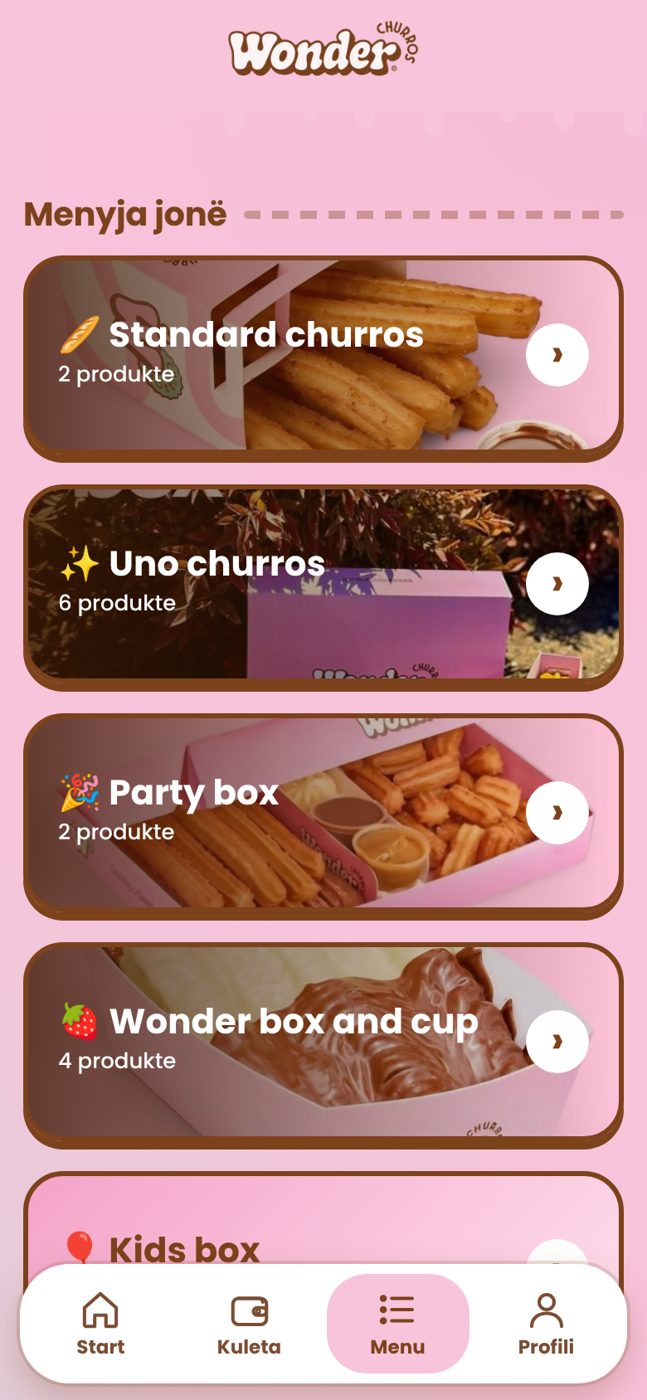
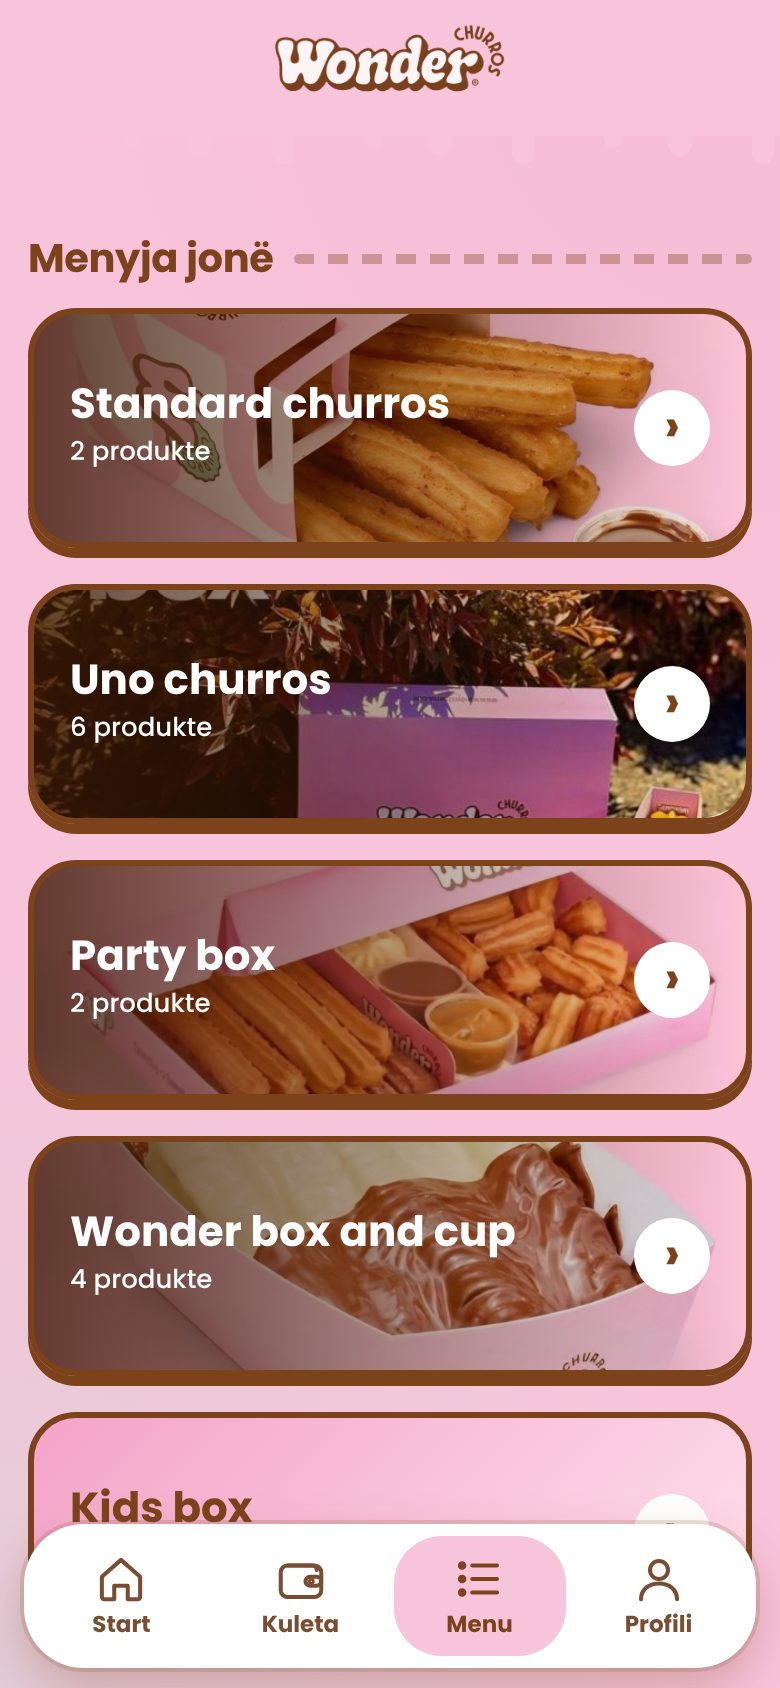
Menu text only; product QR on the customer's phone with quantity
- Remove emoji before category, product and dip names
- Product page shows a QR (WONDER-P:id[:qty]) with a 1-20 quantity stepper
- Till: one camera session links the customer, then scans the product QR on the customer's phone
- Printed product codes kept as a fallback

Claude-Session: https://claude.ai/code/session_01J6BHvyhh5WLEG3Je4JCcW7

diff --git a/index.html b/index.html
@@ -133,7 +133,7 @@ h3::after{content:"";flex:1;height:5px;border-radius:5px;background:repeating-li
 .dimg{background:var(--pink);border:3px solid #7C421C;border-radius:30px;box-shadow:0 6px 0 #7C421C;padding:16px;display:flex;justify-content:center;align-items:center;min-height:240px;margin-bottom:18px;overflow:hidden}
 .dimg img{width:100%;height:auto;max-height:46vh;object-fit:contain;border-radius:20px;display:block;filter:drop-shadow(0 12px 12px rgba(124,66,28,.3));animation:grow .42s cubic-bezier(.2,.8,.2,1) both}
 @keyframes grow{from{transform:scale(.68);opacity:.3}}
-.pemo{font-size:120px;line-height:1.1}
+.pemo{display:none}.dimg:empty{display:none}.mi.noth{min-height:0;padding-top:16px;padding-bottom:16px}
 .pname{font-family:"Poppins",system-ui,-apple-system,"Segoe UI",Roboto,sans-serif;font-weight:400;font-size:34px;margin:4px 0 12px;color:var(--on);text-align:center}
 .rows{background:var(--card);border:1.5px solid var(--line);border-radius:20px;padding:4px 16px}
 .r{display:flex;justify-content:space-between;gap:14px;padding:11px 0;border-bottom:1px dashed var(--line)}.r:last-child{border:0}.r span{color:var(--muted)}.r b{text-align:right}
@@ -205,6 +205,10 @@ select{width:100%;padding:12px;border-radius:12px;border:2px solid var(--line);b
 .qcard .qimg svg{width:100%;display:block}.qcard b{font-size:15px;line-height:1.2}.qcard span{font-size:12.5px;color:#7a4d33}.qcard i{font-style:normal;font-size:10.5px;color:#999;letter-spacing:.03em}
 @media print{@page{margin:10mm}body{background:#fff!important;padding:0}header,#bot,.tabs,.noprint,.card.good{display:none!important}main{max-width:none;padding:0}
 .qgrid{grid-template-columns:repeat(4,1fr);gap:8px}.qcard{break-inside:avoid;border-width:1px}.qcat{break-after:avoid;margin:10px 0 6px}h3::after{display:none}}
+.pqc{margin-top:16px}.pqh{display:flex;flex-direction:column;gap:2px;margin-bottom:12px}.pqb{display:flex;gap:16px;align-items:center}
+.pqr{width:132px}.pqs{display:flex;flex-direction:column;gap:6px}.stp{display:flex;align-items:center;gap:12px}.stp b{font-size:24px;min-width:28px;text-align:center}
+.stp .btn{width:42px;height:42px;padding:0;justify-content:center;font-size:22px}.pqp{font-weight:800;color:#7C421C}
+.slk{font-weight:800;color:#7C421C;text-align:center;margin:2px 0}.slk.ok{color:#1d7a3a}.sms{text-align:center;margin:2px 0 8px}
 </style>
 </head>
 <body>
@@ -225,15 +229,18 @@ const DS={1:'5 churros të freskëta dhe krokante, të shoqëruara me 1 dip sipa
 const DIPS=[['🍓','Raspberry'],['🫐','Blueberry'],['🌰','Hazelnut'],['🍦','Vanilla'],['🍫','Nutella'],['🍯','Caramel'],['🟢','Pistachio']];
 const FLAV=['Caramel','Hazelnut','Toffee Crunch','Speculoos Cookie','Vanilla','Popcorn'];
 const XI={1:['5 churros','1 dip sipas zgjedhjes','d'],2:['10 churros','2 dip sipas zgjedhjes','d'],20:['Churros të zhytur në çokollatë','Çokollatë',''],3:['5 churros','2 dip sauces','d'],6:['10 churros + 15 mini churros','4 dip sauces','d'],4:['15 mini churros','2 toppings',''],5:['20 mini churros + fruta sezonale','2 dip sauces','d'],7:['40 mini churros + fruta sezonale','4 dip sauces','d'],27:['Latte me shije','Shije sipas zgjedhjes','f']};
-let pd=null,mscroll=0,ms0=0,mx=0;
+let pd=null,mscroll=0,ms0=0,mx=0;const pqty={};
 function fx(s){if(!s)return;const r=s.getBoundingClientRect(),c=r.left+r.width/2;s.querySelectorAll('.mcard').forEach(k=>{const b=k.getBoundingClientRect(),d=Math.min(1,Math.abs(b.left+b.width/2-c)/(b.width*1.1));k.style.transform=`scale(${1-.14*d})`;k.style.opacity=1-.35*d})}
+function pqrCard(m){const q=pqty[m.id]||1,pts=Math.round(m.p*q*100)/100;
+ return `<div class="card pqc"><div class="pqh"><b>Fito pikë për këtë blerje</b><span class="mut">Në arkë stafi skanon fillimisht QR-në tënde te Kuleta, pastaj këtë kod.</span></div>`
+ +`<div class="pqb"><div class="qrs pqr" id="pqr">${qrSvg(PQR(m.id,q))}</div><div class="pqs"><span class="mut">Sasia</span><div class="stp"><button class="btn ghost sm" data-a="pq" data-v="-1" aria-label="Më pak">−</button><b id="pqn">${q}</b><button class="btn ghost sm" data-a="pq" data-v="1" aria-label="Më shumë">+</button></div><span class="pqp" id="pqp">+${fmtP(pts)} pikë</span></div></div></div>`}
 function vProd(m){const uno=m.n.startsWith('Uno '),x=XI[m.id]||(uno?['1 churros i gjatë','Topping: '+m.n.replace('Uno ',''),'']:null),full=FULL.has(m.i);
  const rows=[['Lloji',m.c]];if(x){rows.push(['Përmbajtja',x[0]]);rows.push(['Sosi / Dip',x[1]])}
- const chips=x&&x[2]==='d'?DIPS.map(d=>`<span class="chp">${d[0]} ${d[1]}</span>`).join(''):x&&x[2]==='f'?FLAV.map(f=>`<span class="chp">${f}</span>`).join(''):'';
+ const chips=x&&x[2]==='d'?DIPS.map(d=>`<span class="chp">${d[1]}</span>`).join(''):x&&x[2]==='f'?FLAV.map(f=>`<span class="chp">${f}</span>`).join(''):'';
  return `<div class="dh"><button class="dback" data-a="pback" aria-label="Kthehu te menyja">←</button><b>${m.c}</b><i></i></div>`
- +`<div class="dimg${full?' full':''}"${full?` style="background:${IMGBG[m.i]}"`:''}>${m.i?`<img src="${IMGL[m.i]||IMG[m.i]}" alt="${m.n}"${full?'':` style="max-width:${IMGW[m.i]||560}px"`}>`:`<div class="pemo">${m.e}</div>`}</div>`
+ +`<div class="dimg${full?' full':''}"${full?` style="background:${IMGBG[m.i]}"`:''}>${m.i?`<img src="${IMGL[m.i]||IMG[m.i]}" alt="${m.n}"${full?'':` style="max-width:${IMGW[m.i]||560}px"`}>`:''}</div>`
  +`<h2 class="pname">${m.n}${m.nw?'<span class="nw">I RI</span>':''}</h2><div class="rows">${rows.map(r=>`<div class="r"><span>${r[0]}</span><b>${r[1]}</b></div>`).join('')}</div>`
- +(chips?`<h4 class="sec">${x[2]==='d'?'Dip-et e disponueshme':'Shijet e disponueshme'}</h4><div class="chps">${chips}</div>${x[2]==='d'?'<p class="mut" style="margin:8px 0 0">Dip shtesë: 0.50 €</p>':''}`:'')
+ +(U()?pqrCard(m):'')+(chips?`<h4 class="sec">${x[2]==='d'?'Dip-et e disponueshme':'Shijet e disponueshme'}</h4><div class="chps">${chips}</div>${x[2]==='d'?'<p class="mut" style="margin:8px 0 0">Dip shtesë: 0.50 €</p>':''}`:'')
  +`<h4 class="sec">Rreth produktit</h4><p class="pdesc">${DS[m.id]||m.d}</p><div class="dfoot"><span class="mut">Çmimi</span><span class="badge">${K(m.p)}</span></div><button class="btn ghost wide" style="justify-content:center" data-a="pback">← Kthehu te ${m.c}</button>`}
 const CATIC={'Standard churros':'🥖','Uno churros':'✨','Party box':'🎉','Wonder box and cup':'🍓','Kids box':'🎈','Flavored Latte':'🥤','Coffee':'☕'};
 const CATS=['Standard churros','Uno churros','Party box','Wonder box and cup','Kids box','Flavored Latte','Coffee'];
@@ -290,8 +297,8 @@ const closeS=()=>$('ov').classList.remove('show');
 const b64e=s=>btoa(unescape(encodeURIComponent(s))).replace(/\+/g,'-').replace(/\//g,'_').replace(/=+$/,'');
 const b64d=s=>decodeURIComponent(escape(atob(s.replace(/-/g,'+').replace(/_/g,'/'))));
 const qrPay=u=>'WONDER:'+u.mid+':'+b64e(JSON.stringify({n:u.name,s:u.surname||'',e:u.email||''}));
-const PQR=id=>'WONDER-P:'+id;
-const parseP=t=>{const m=/^WONDER-P:(\d+)$/i.exec(String(t).trim());return m?MENU.find(x=>x.id==+m[1])||null:null};
+const PQR=(id,q)=>'WONDER-P:'+id+(q>1?':'+q:'');
+const parseP=t=>{const m=/^WONDER-P:(\d+)(?::(\d+))?$/i.exec(String(t).trim());if(!m)return null;const p=MENU.find(x=>x.id==+m[1]);const q=m[2]?+m[2]:1;return p&&q>=1&&q<=20?{m:p,q}:null};
 function parseQR(t){const m=/^WONDER:([A-Z0-9]+)(?::([A-Za-z0-9_-]+))?$/i.exec(String(t).trim());if(!m)return null;let c={};try{if(m[2])c=JSON.parse(b64d(m[2]))}catch(e){}return {mid:m[1].toUpperCase(),n:c.n||'',s:c.s||'',e:(c.e||'').toLowerCase()}}
 function qrSvg(t){try{const q=qrcode(0,'M');q.addData(t);q.make();const n=q.getModuleCount();let d='';for(let r=0;r<n;r++)for(let c=0;c<n;c++)if(q.isDark(r,c))d+=`M${c+2} ${r+2}h1v1h-1z`;return `<svg viewBox="0 0 ${n+4} ${n+4}" xmlns="http://www.w3.org/2000/svg" shape-rendering="crispEdges"><rect width="100%" height="100%" fill="#fff"/><path d="${d}" fill="#000"/></svg>`}catch(e){return ''}}
 
@@ -336,14 +343,14 @@ function vWal(){const u=U(),pp=u.pp||{},pr=m=>Math.min(1,(pp[m.id]||0)/RC(m));
  +`<h3>Dhuratat e tua</h3>`+(u.vouchers.length?u.vouchers.map(v=>`<div class="card tkt"><span class="ribbon">FALAS</span><b>${esc(v.n)}</b><span class="mut">Trego këtë në arkë</span></div>`).join(''):'<div class="card mut">Kur arrin pikët e një produkti, ai hapet këtu falas.</div>')
  +`<h3>Produktet falas</h3><p class="mut" style="margin:0 0 10px">Blej të njëjtin produkt 9 herë dhe i 10-ti është falas. Pikët numërohen për secilin produkt veç e veç dhe pas përdorimit zbriten.</p>`+rw.map(m=>{const c=pp[m.id]||0,ok=c>=RC(m);return `<div class="card item pg${ok?' ok':''}">${th(m)}<div class="t"><b>${m.n}</b><span class="mut">${fmtP(c)} / ${fmtP(RC(m))} pikë</span><div class="pbar"><i style="width:${Math.min(100,c/RC(m)*100)}%"></i></div></div>${ok?`<button class="btn sm" data-a="redeem" data-v="${m.id}">Merre falas</button>`:`<span class="mut need">Edhe ${fmtP(RC(m)-c)}</span>`}</div>`}).join('')
  +`<h3>Ofertat e tua</h3>${(u.offers||[]).length?u.offers.map((o,i)=>offerBox(o,i)).join(''):'<div class="card mut">Nuk ke oferta aktive tani.</div>'}`
- +`<h3>ID-ja ime</h3><div class="card idc"><div class="qrs">${qrSvg(qrPay(u))}</div><div><b>${FN(u)}</b><div class="mut">ID e klientit</div><div class="idn">${u.mid}</div><span class="mut">Trego QR-në në arkë</span></div></div>`
+ +`<h3>ID-ja ime</h3><div class="card idc"><div class="qrs">${qrSvg(qrPay(u))}</div><div><b>${FN(u)}</b><div class="mut">ID e klientit</div><div class="idn">${u.mid}</div><span class="mut">Trego QR-në në arkë</span></div></div><p class="mut" style="margin:8px 4px 0">1. Stafi skanon këtë QR. 2. Hap produktin që blen te <b>Menu</b> dhe trego QR-në e tij. Pikët shtohen automatikisht.</p>`
  +`<h3>Historiku i pikëve</h3>`+(hist||'<div class="card mut">Ende nuk ke blerje. Pas çdo blerjeje në dyqan fiton pikë.</div>')}
 function vMenu(){if(pd!=null){const pm=MENU.find(x=>x.id==pd);if(pm)return vProd(pm)}
  if(cat==null){const T={'Standard churros':[IMGL.churros,'center'],'Uno churros':[PHOTOS[0],'center 40%'],'Party box':[IMGL.party,'center'],'Wonder box and cup':[IMGL.duo,'center 55%'],'Flavored Latte':[PHOTOS[1],'center 62%'],'Coffee':[PHOTOS[3],'center 60%']};
-  return `<h3>Menyja jonë</h3>`+CATS.map(c=>{const n=MENU.filter(m=>m.c===c).length,t=T[c];return `<div class="ctile${t?'':' noimg'}" data-a="cat" data-v="${c}" role="button" tabindex="0" style="${t?`background-image:linear-gradient(90deg,rgba(60,25,5,.8),rgba(60,25,5,.3) 62%,rgba(60,25,5,0)),url(${t[0]});background-position:center,${t[1]}`:''}"><div><b>${CATIC[c]} ${c}</b><span>${n?n+' produkte':'Së shpejti'}</span></div><span class="go2">›</span></div>`}).join('')}
+  return `<h3>Menyja jonë</h3>`+CATS.map(c=>{const n=MENU.filter(m=>m.c===c).length,t=T[c];return `<div class="ctile${t?'':' noimg'}" data-a="cat" data-v="${c}" role="button" tabindex="0" style="${t?`background-image:linear-gradient(90deg,rgba(60,25,5,.8),rgba(60,25,5,.3) 62%,rgba(60,25,5,0)),url(${t[0]});background-position:center,${t[1]}`:''}"><div><b>${c}</b><span>${n?n+' produkte':'Së shpejti'}</span></div><span class="go2">›</span></div>`}).join('')}
  const its=MENU.filter(m=>m.c===cat);
  return `<div class="dh"><button class="dback" data-a="cback" aria-label="Kthehu te menyja">←</button><b>${cat}</b><i></i></div>`
- +(its.length?its.map(m=>`<div class="card item mi" data-a="prod" data-v="${m.id}" role="button" tabindex="0">${m.i?`<img class="th" src="${IMG[m.i]}" alt="${m.n}">`:`<div class="th ph2">${m.e}</div>`}<div class="t"><b>${m.n}${m.nw?'<span class="nw">I RI</span>':''}</b><span class="mut">${m.d}</span></div><span class="badge">${K(m.p)}</span></div>`).join(''):'<div class="card mut">Produktet e kësaj kategorie po shtohen së shpejti.</div>')}
+ +(its.length?its.map(m=>`<div class="card item mi${m.i?'':' noth'}" data-a="prod" data-v="${m.id}" role="button" tabindex="0">${m.i?`<img class="th" src="${IMG[m.i]}" alt="${m.n}">`:''}<div class="t"><b>${m.n}${m.nw?'<span class="nw">I RI</span>':''}</b><span class="mut">${m.d}</span></div><span class="badge">${K(m.p)}</span></div>`).join(''):'<div class="card mut">Produktet e kësaj kategorie po shtohen së shpejti.</div>')}
 function vMe(){const u=U();
  return `<div class="card"><b>${FN(u)}</b><div class="mut">${esc(db.cur)} · ID ${u.mid}</div><label class="mut">Data e lindjes (për dhuratën)</label><input type="date" id="bd" value="${u.bday||''}"></div>`+offers()
  +`<button class="btn ghost wide" data-a="out" style="margin-top:12px;justify-content:center">Dil nga llogaria</button>`}
@@ -380,6 +387,8 @@ document.addEventListener('click',e=>{
  else if(a==='slp'){const s=$('slp');if(s)s.scrollBy({left:+v*s.clientWidth*.7,behavior:'smooth'})}
  else if(a==='prod'){mscroll=scrollY;pd=+v;render();scrollTo(0,0)}
  else if(a==='pback'){pd=null;render();scrollTo(0,mscroll)}
+ else if(a==='pq'){const m=MENU.find(x=>x.id==pd);if(!m)return;const q=Math.min(20,Math.max(1,(pqty[m.id]||1)+(+v)));pqty[m.id]=q;
+  $('pqr').innerHTML=qrSvg(PQR(m.id,q));$('pqn').textContent=q;$('pqp').textContent='+'+fmtP(Math.round(m.p*q*100)/100)+' pikë'}
  else if(a==='qr')qrS();
  else if(a==='out'){db.cur=null;save();render()}
  else if(a==='topS')topS();
@@ -405,12 +414,12 @@ function stArka(){const u=st.found&&db.users[st.found];
  if(!u)return h;
  const t=tier(u),ofs=u.offers||[];
  h+=`<div class="card"><b>${FN(u)}</b><div class="mut">${esc(st.found)} · ID ${u.mid}</div><div style="margin-top:6px">1 € blerje = 1 pikë</div><div class="fancy" style="font-size:38px">${fmtP(u.points)}<span style="font-size:18px"> pikë</span></div>${ppList(u)}</div>`
- +`<button class="btn scanbtn" data-a="st_scan">📷 Skano QR-në e produktit</button><p class="mut" style="margin:-2px 0 12px;text-align:center">Çdo skanim = 1 copë. Pikët shkojnë te kuleta e ${esc(u.name)}.</p><div class="card"><b>Ose regjistro me dorë</b><div class="mut">1 € blerje = 1 pikë. Pikët mblidhen për secilin produkt veç e veç.</div><select id="spp">${MENU.map(m=>`<option value="${m.id}">${m.n} · ${K(m.p)}</option>`).join('')}</select><input type="text" inputmode="numeric" id="sqty" placeholder="Sasia" value="1"><button class="btn" style="width:100%" data-a="st_pts">Shto pikë</button></div><h3>Oferta</h3>`;
+ +`<button class="btn scanbtn" data-a="st_scan">📷 Skano QR-në e produktit</button><p class="mut" style="margin:-2px 0 12px;text-align:center">Kodi është te produkti në telefonin e klientit (Menu → produkti), me sasinë brenda. Pikët shkojnë te kuleta e ${esc(u.name)}.</p><div class="card"><b>Ose regjistro me dorë</b><div class="mut">1 € blerje = 1 pikë. Pikët mblidhen për secilin produkt veç e veç.</div><select id="spp">${MENU.map(m=>`<option value="${m.id}">${m.n} · ${K(m.p)}</option>`).join('')}</select><input type="text" inputmode="numeric" id="sqty" placeholder="Sasia" value="1"><button class="btn" style="width:100%" data-a="st_pts">Shto pikë</button></div><h3>Oferta</h3>`;
  h+=ofs.length?ofs.map((o,i)=>{const s=offerState(o);return s==='a'?`<div class="card row"><span>🏷 ${OFFER_TXT}<br><span class="mut">Aktive: <span class="cdn" data-exp="${o.exp}">${Math.max(0,Math.ceil((o.exp-Date.now())/1000))}</span> sek</span></span><button class="btn sm" data-a="st_offer" data-v="${i}">Valido</button></div>`:`<div class="card mut">${s==='x'?'Oferta ka skaduar.':'Klienti nuk e ka aktivizuar ofertën.'}</div>`}).join(''):'<div class="card mut">Klienti nuk ka ofertë aktive.</div>';
  h+='<h3>Dhuratat</h3>'+(u.vouchers.length?u.vouchers.map((v,i)=>`<div class="card row"><span>🎁 ${esc(v.n)}</span><button class="btn sm" data-a="st_vuse" data-v="${i}">Përdor</button></div>`).join(''):'<div class="card mut">Klienti nuk ka dhurata.</div>');
  return h}
 function stQR(){const cats=[...new Set([...CATS,...MENU.map(m=>m.c)])].filter(c=>MENU.some(m=>m.c===c));
- return `<div class="card noprint"><b>Kodet QR të produkteve</b><div class="mut">Printoji dhe vendosi te arka. Pasi të skanohet klienti, stafi skanon kodin e produktit dhe pikët shkojnë automatikisht te kuleta e klientit.</div><button class="btn" style="width:100%;margin-top:10px" data-a="st_print">🖨 Printo kodet</button></div>`
+ return `<div class="card noprint"><b>Kodet QR të produkteve</b><div class="mut">Rezervë, për rastin kur klienti s'mund ta hapë produktin në telefon. Zakonisht kodi i produktit skanohet në telefonin e klientit. Këto kode regjistrojnë 1 copë për skanim.</div><button class="btn" style="width:100%;margin-top:10px" data-a="st_print">🖨 Printo kodet</button></div>`
  +cats.map(c=>`<h3 class="qcat">${esc(c)}</h3><div class="qgrid">${MENU.filter(m=>m.c===c).map(m=>`<div class="qcard"><div class="qimg">${qrSvg(PQR(m.id))}</div><b>${esc(m.n)}</b><span>${K(m.p)} · ${fmtP(m.p)} pikë</span><i>WONDER-P:${m.id}</i></div>`).join('')}</div>`).join('')}
 function stStaf(){return `<div class="card"><b>Regjistro staf të ri</b><input type="text" id="sn1" placeholder="Emri (përdoret për hyrje)"><input type="text" inputmode="numeric" id="sp1" placeholder="PIN (4 deri në 8 shifra)" maxlength="8"><button class="btn" style="width:100%" data-a="st_addstaff">Regjistro</button></div><h3>Stafi i regjistruar</h3>`
  +((db.staff||[]).length?db.staff.map((s,i)=>`<div class="card row"><span>👤 ${esc(s.name)}</span><button class="btn ghost sm" data-a="st_del" data-v="${i}">Fshi</button></div>`).join(''):'<div class="card mut">Ende nuk ka staf të regjistruar.</div>')}
@@ -460,37 +469,47 @@ async function staffAct(a,b){const v=b.dataset.v,er=m=>{const e=$('ae');if(e)e.t
 
 let scanS=null,jsqrP=null;
 function loadJsQR(){if(window.jsQR)return Promise.resolve();return jsqrP||(jsqrP=new Promise((ok,no)=>{const s=document.createElement('script');s.src='/js/jsqr.js';s.onload=ok;s.onerror=()=>{jsqrP=null;no()};document.head.appendChild(s)}))}
+const linked=()=>st.found&&db.users[st.found]?db.users[st.found]:null;
+function scanHead(){const u=linked();return u?`<div class="slk ok">✓ Klienti i lidhur: <b>${esc(u.name)} ${esc(u.surname||'')}</b></div><p class="mut sms">Tani skano QR-në e produktit në telefonin e klientit.</p>`
+ :`<div class="slk">Hapi 1 nga 2</div><p class="mut sms">Skano QR-në e klientit (Kuleta në telefonin e tij).</p>`}
 async function startScan(){
- sheet(`<h2 class="fancy">Skano QR-në</h2><div class="scan"><video id="sv" playsinline muted></video></div><p class="mut" id="smsg" style="text-align:center">${st.found&&db.users[st.found]?'Mbaje QR-në e produktit brenda kornizës.':'Mbaje QR-në e klientit brenda kornizës.'}</p><button class="btn ghost wide" style="justify-content:center" data-a="st_scanstop">Mbyll</button>`);
+ sheet(`<h2 class="fancy">Skano QR-në</h2><div id="shd">${scanHead()}</div><div class="scan"><video id="sv" playsinline muted></video></div><p class="err" id="smsg" style="text-align:center;min-height:1.2em"></p><button class="btn ghost wide" style="justify-content:center" data-a="st_scanstop">Mbyll</button>`);
  const msg=m=>{const e=$('smsg');if(e)e.textContent=m};
  if(!navigator.mediaDevices||!navigator.mediaDevices.getUserMedia){msg('Kjo pajisje nuk lejon kamerën këtu. Shkruaj ID-në e klientit.');return}
  let det=null;try{if('BarcodeDetector' in window&&(await BarcodeDetector.getSupportedFormats()).includes('qr_code'))det=new BarcodeDetector({formats:['qr_code']})}catch(e){}
  if(!det){try{await loadJsQR()}catch(e){msg('Skaneri nuk u ngarkua. Kontrollo internetin.');return}}
  let s;try{s=await navigator.mediaDevices.getUserMedia({video:{facingMode:{ideal:'environment'}},audio:false})}catch(e){msg('Kamera nuk u lejua. Lejoje te cilësimet e shfletuesit, ose shkruaj ID-në.');return}
  if(!$('sv')){s.getTracks().forEach(t=>t.stop());return}
- scanS={stream:s,raf:0};const v=$('sv');v.srcObject=s;try{await v.play()}catch(e){}
+ scanS={stream:s,raf:0,skip:null};const v=$('sv');v.srcObject=s;try{await v.play()}catch(e){}
  const cv=document.createElement('canvas'),cx=cv.getContext('2d',{willReadFrequently:true});let busy=false;
  const loop=async()=>{if(!scanS)return;
   if(!busy&&v.readyState>=2&&v.videoWidth){busy=true;let txt=null;
    try{if(det){const r=await det.detect(v);if(r&&r[0])txt=r[0].rawValue}
     else{const w=Math.min(640,v.videoWidth),h=Math.round(v.videoHeight*w/v.videoWidth);cv.width=w;cv.height=h;cx.drawImage(v,0,0,w,h);const r=jsQR(cx.getImageData(0,0,w,h).data,w,h,{inversionAttempts:'dontInvert'});if(r)txt=r.data}}catch(e){}
-   busy=false;if(txt&&scanS){if(navigator.vibrate)navigator.vibrate(60);onScan(txt);return}}
+   busy=false;
+   if(txt&&scanS&&txt!==scanS.skip){const r=handleCode(txt,true);
+    if(r.stop){if(navigator.vibrate)navigator.vibrate(60);stopScan();closeS();st.msg=r.msg;st.bad=!!r.bad;render();return}
+    scanS.skip=txt;if(r.linked&&navigator.vibrate)navigator.vibrate(60);const h=$('shd');if(h)h.innerHTML=scanHead();msg(r.bad?r.msg:'')}}
   if(scanS)scanS.raf=requestAnimationFrame(loop)};
  loop()}
 function stopScan(){if(scanS){cancelAnimationFrame(scanS.raf);scanS.stream.getTracks().forEach(t=>t.stop());scanS=null}}
-function onScan(txt){stopScan();closeS();
- const say=(m,bad)=>{st.msg=m;st.bad=!!bad;render()};
- const pm=parseP(txt);
- if(pm){st.tab='arka';if(!st.found||!db.users[st.found]){st.last=null;say('Skano fillimisht QR-në e klientit, pastaj produktin.',true);return}say(addPurchase(st.found,pm,1));return}
- if(/^WONDER-P:/i.test(String(txt).trim())){say('Ky produkt nuk ekziston më në meny.',true);return}
- const p=parseQR(txt);
- if(!p){say('Ky QR nuk është i Wonder Club.',true);return}
- let key=Object.keys(db.users).find(k=>(db.users[k].mid||'').toUpperCase()===p.mid),added=false;
- if(!key){if(!p.n){say('Klienti nuk u gjet në këtë pajisje.',true);return}
+function linkCustomer(p){let key=Object.keys(db.users).find(k=>(db.users[k].mid||'').toUpperCase()===p.mid),added=false;
+ if(!key){if(!p.n)return null;
   key=p.e&&!db.users[p.e]?p.e:'id:'+p.mid;
   db.users[key]={name:p.n,surname:p.s,email:p.e,mid:p.mid,points:0,earned:0,pp:{},balance:0,vouchers:[{n:'Churros Standard falas (dhuratë mirëseardhjeje)',v:2.5}],orders:[],offers:[{n:'1 € zbritje kur blen Churros Large',item:2,off:1}],added:Date.now()};added=true;save()}
- st.tab='arka';st.q=db.users[key].mid;st.found=key;st.last=null;
- say(added?`Klient i ri u shtua: ${db.users[key].name} ${db.users[key].surname}.`:'')}
+ st.tab='arka';st.q=db.users[key].mid;st.found=key;st.last=null;return {key,added}}
+// One code from the camera or the search box. Camera: a customer code links and keeps the camera on; a product code books the purchase and stops.
+function handleCode(txt,cam){const s=String(txt).trim();
+ const pp=parseP(s);
+ if(pp){if(!linked())return {bad:true,msg:'Skano fillimisht QR-në e klientit, pastaj produktin.',stop:!cam};
+  st.tab='arka';return {stop:true,msg:addPurchase(st.found,pp.m,pp.q)}}
+ if(/^WONDER-P:/i.test(s))return {bad:true,msg:'Ky kod produkti nuk vlen (produkt i panjohur ose sasi mbi 20).',stop:!cam};
+ const p=parseQR(s);
+ if(!p)return {bad:true,msg:'Ky QR nuk është i Wonder Club.',stop:!cam};
+ const r=linkCustomer(p);if(!r)return {bad:true,msg:'Klienti nuk u gjet në këtë pajisje.',stop:!cam};
+ const u=db.users[r.key];
+ return {linked:true,stop:!cam,msg:r.added?`Klient i ri u shtua dhe u lidh: ${u.name} ${u.surname}.`:`Klienti u lidh: ${u.name} ${u.surname}.`}}
+function onScan(txt){stopScan();closeS();const r=handleCode(txt,false);st.msg=r.msg;st.bad=!!r.bad;render()}
 (function(){let s=null,x0=0,l0=0,mv=false;
 document.addEventListener('pointerdown',e=>{mv=false;const el=e.target.closest&&e.target.closest('.sl');if(!el||e.pointerType!=='mouse')return;s=el;x0=e.clientX;l0=el.scrollLeft;el.style.scrollSnapType='none'});
 document.addEventListener('pointermove',e=>{if(!s)return;const d=e.clientX-x0;if(Math.abs(d)>5)mv=true;s.scrollLeft=l0-d});
